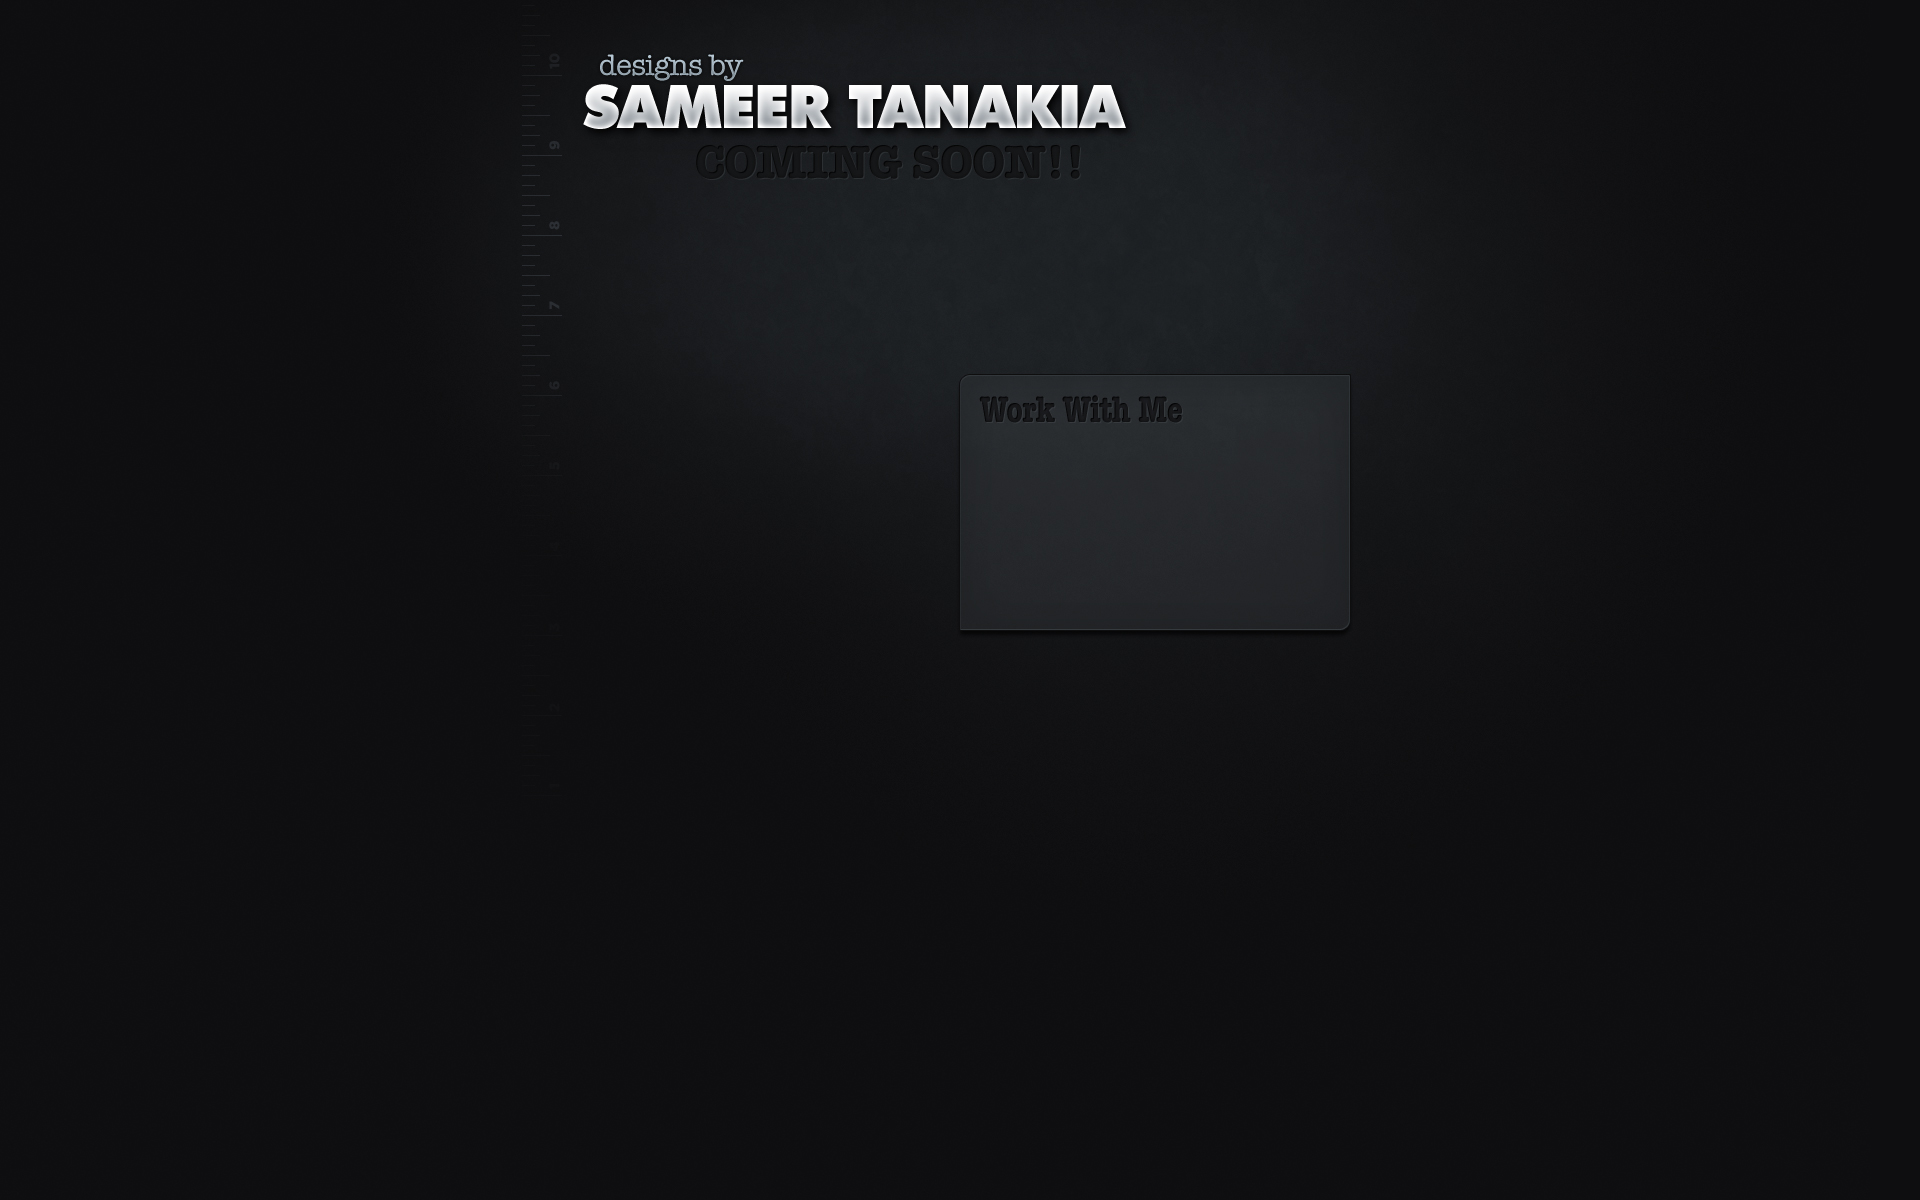
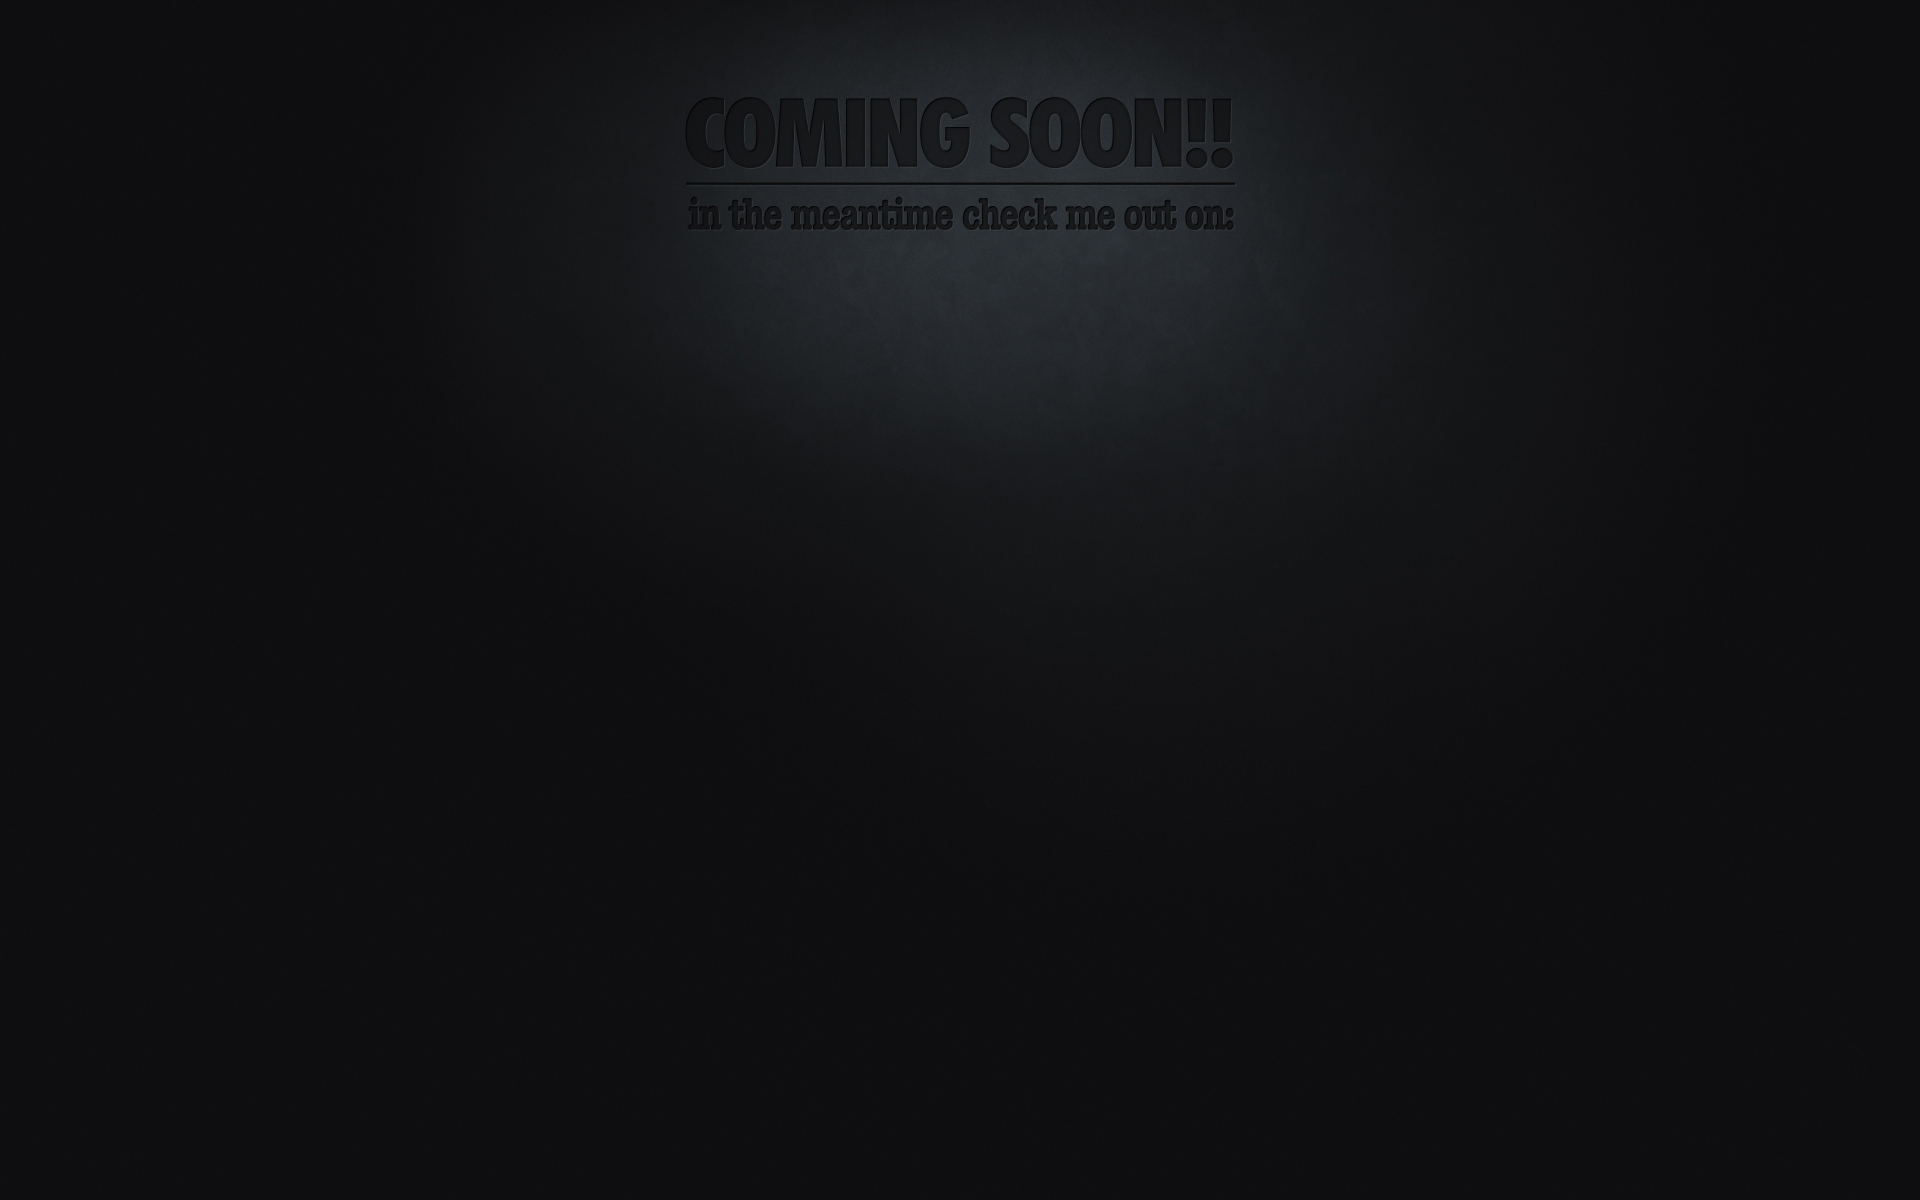
coming soon w/ links

Changed region(s): [[0.2812, 0.0308, 0.5938, 0.1542]]

diff --git a/css/style.css b/css/style.css
@@ -1,10 +1,46 @@
 body {
-  background: #0e0f10 url('/images/bg.jpg') no-repeat center top;
+  background: #0e0f10 url('/coming_soon/images/bg.jpg') no-repeat center top;
 }
 
 #main {
+  width: 980px;
+  height: 450px;
   text-align: center;
   font-weight: bold;
   font-size: 50px;
-  padding-top: 50px;
+  margin: 0 auto;
+  position: relative;
+}
+
+#main .social {
+  height: 180px;
+  width: 180px;
+  top: 248px;
+  left: 220px;
+  color: transparent;
+  display: block;
+  position: absolute;
+  background: transparent url('/coming_soon/images/social.jpg') no-repeat left top;
+}
+
+#main .social:hover {
+  background-position: left bottom;
+}
+
+#main .fb {
+  left: 400px;
+  background-position: -180px top;
+}
+
+#main .fb:hover {
+  background-position: -180px bottom;
+}
+
+#main .in {
+  left: 580px;
+  background-position: -360px top;
+}
+
+#main .in:hover {
+  background-position: -360px bottom;
 }

diff --git a/index.php b/index.php
@@ -29,6 +29,9 @@
     </header>
     
     <div id="main">
+      <a href="http://twitter.com/sameer0583" class="social tw" target="_blank" ></a>
+      <a href="http://facebook.com/sameert" class="social fb" target="_blank" ></a>
+      <a href="http://www.linkedin.com/in/sameer0583" class="social in" target="_blank" ></a>
     </div>
 
     <footer>
